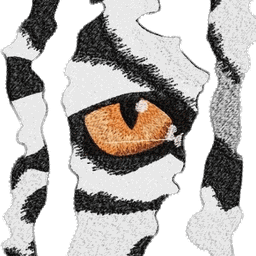
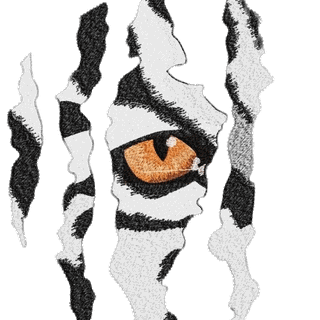
Fix the over-zoomed header mark; say what broke when the plumbing breaks
Three things, one of them found the hard way in production.

The header showed a tight crop of the eye inside a circle, which the
circle then cropped again. At 42px that reads as a close-up photograph,
not a logo. The header now shows the whole tear, bare, at 38px — no
circle, no pill. An intermediate attempt put the full mark inside a pill
at 30px, where it was a speck; rendered side by side, standing on its own
at 38px was plainly the right one.

The icon crop was widened too, from a 370px square to 560px, so the
favicon shows the claws either side of the eye rather than just the eye.
Checked at 16, 24, 32 and 48px: it still reads at the smallest.

The company form no longer prefills invented names. "Shree Balaji Traders
Pvt Ltd" and a specimen GSTIN as placeholders read as if something were
already entered, and a real-looking GSTIN is the one placeholder somebody
might paste by mistake. The GSTIN field keeps a format hint rather than a
specimen number.

Then the one that cost a round trip. Creating a company in production
failed with "Something went wrong. Nothing was changed." That is the right
thing to say about a bug — true, and it leaks nothing — but the wrong
thing to say about a misconfiguration, because the person who can fix it
learns nothing from it. The cause was an environment variable pointing at
a database where the application role does not exist, and finding it meant
reading server logs.
[…]

diff --git a/apps/web/src/lib/infra-errors.ts b/apps/web/src/lib/infra-errors.ts
@@ -1,0 +1,134 @@
+/**
+ * Saying what actually broke, when what broke is the plumbing.
+ *
+ * An unexpected throw used to surface as "Something went wrong. Nothing was
+ * changed." That is the right thing to say about a bug — it tells the user the
+ * truth and leaks nothing — but it is the wrong thing to say about a
+ * misconfiguration, because the person who can fix it learns nothing from it.
+ *
+ * This happened in production: the database rejected the application role's
+ * password, every page that touched the database failed, and the only clue
+ * anybody had was "Something went wrong." The cause was a one-line environment
+ * variable pointing at the wrong database, and finding it meant reading server
+ * logs.
+ *
+ * So a small set of failures that are always configuration, never a bug, get
+ * named. The rule for what goes in the message: enough for whoever administers
+ * the deployment to know which setting to look at, and nothing that would help
+ * somebody who should not be looking. Connection strings, passwords, hosts and
+ * usernames stay out; the NAME of the environment variable goes in, because the
+ * name is already in the repository's README.
+ */
+
+export interface InfrastructureFailure {
+  /** Shown to whoever hit it. */
+  message: string;
+  /** For the log line, so the cause is greppable. */
+  reason: string;
+}
+
+/** Postgres SQLSTATEs that mean "configured wrong", not "the code is wrong". */
+const POSTGRES: Record<string, InfrastructureFailure> = {
+  // Covers a wrong password AND a role that does not exist: Postgres reports
+  // both as 28P01 on purpose, so that probing cannot discover which usernames
+  // are real. The message therefore has to name both possibilities.
+  '28P01': {
+    reason: 'postgres_auth_failed',
+    message:
+      'The app could not sign in to its database. DATABASE_URL has the wrong password for the ' +
+      'application role, or points at a database where that role does not exist. Nothing was changed.',
+  },
+  '28000': {
+    reason: 'postgres_auth_rejected',
+    message:
+      'The database refused the connection. Check DATABASE_URL and whether the database allows ' +
+      'connections from here. Nothing was changed.',
+  },
+  '3D000': {
+    reason: 'postgres_database_missing',
+    message:
+      'The database named in DATABASE_URL does not exist. Nothing was changed.',
+  },
+  // A missing table almost always means the schema is behind the code, which on
+  // this project means the build's migration step did not reach this database.
+  '42P01': {
+    reason: 'postgres_relation_missing',
+    message:
+      'The database is missing a table this version of the app needs, so its migrations have not ' +
+      'run against it. Check that DATABASE_URL_OWNER points at the same database as DATABASE_URL, ' +
+      'then redeploy. Nothing was changed.',
+  },
+  '42501': {
+    reason: 'postgres_permission_denied',
+    message:
+      'The database refused the app permission for that. The application role is missing a grant, ' +
+      'which the migrations normally apply. Nothing was changed.',
+  },
+  '53300': {
+    reason: 'postgres_too_many_connections',
+    message: 'The database is out of connections. Try again shortly; nothing was changed.',
+  },
+};
+
+/** Network failures reaching the database or an upstream service. */
+const NETWORK: Record<string, InfrastructureFailure> = {
+  ECONNREFUSED: {
+    reason: 'connection_refused',
+    message: 'The database refused the connection. It may be asleep or unreachable from here.',
+  },
+  ENOTFOUND: {
+    reason: 'host_not_found',
+    message: 'The database host in DATABASE_URL does not resolve. Check it for a typo.',
+  },
+  ETIMEDOUT: {
+    reason: 'connection_timeout',
+    message: 'The database did not answer in time. Nothing was changed.',
+  },
+  ECONNRESET: {
+    reason: 'connection_reset',
+    message: 'The connection to the database dropped. Nothing was changed.',
+  },
+};
+
+/** A thrown value's `code`, wherever the driver hung it. */
+function codesIn(err: unknown): string[] {
+  const out: string[] = [];
+  let cursor: unknown = err;
+  // `pg` wraps the original error as `cause` on a query failure, and the
+  // SQLSTATE lives on the inner one — reading only the outer would miss it,
+  // which is how the production failure stayed unexplained.
+  for (let depth = 0; cursor !== null && cursor !== undefined && depth < 5; depth += 1) {
+    const code = (cursor as { code?: unknown }).code;
+    if (typeof code === 'string') out.push(code);
+    cursor = (cursor as { cause?: unknown }).cause;
+  }
+  return out;
+}
+
+/**
+ * Whether this failure is the deployment's configuration rather than a bug.
+ *
+ * Returns null for everything else, which keeps the generic message as the
+ * default: a message that guesses at a cause is worse than one that admits it
+ * does not know.
+ */
+export function describeInfrastructureFailure(err: unknown): InfrastructureFailure | null {
+  for (const code of codesIn(err)) {
+    const match = POSTGRES[code] ?? NETWORK[code];
+    if (match) return match;
+  }
+
+  // The env guards throw plain Errors naming the variable. Matching on the
+  // name rather than the sentence keeps this working if the wording changes.
+  const message = err instanceof Error ? err.message : '';
+  for (const name of ['DATABASE_URL_OWNER', 'DATABASE_URL']) {
+    if (message.includes(name) && /not set|missing|undefined/i.test(message)) {
+      return {
+        reason: 'env_missing',
+        message: `${name} is not set on this deployment. Nothing was changed.`,
+      };
+    }
+  }
+
+  return null;
+}

diff --git a/apps/web/tests/unit/infra-errors.test.ts b/apps/web/tests/unit/infra-errors.test.ts
@@ -1,0 +1,111 @@
+import { describe, expect, it } from 'vitest';
+import { describeInfrastructureFailure } from '@/lib/infra-errors';
+
+/** A `pg` query failure: the SQLSTATE is on `cause`, not on the thrown error. */
+function pgFailure(code: string, message = 'Failed query') {
+  const outer = new Error(message) as Error & { cause?: unknown };
+  const inner = new Error('database said no') as Error & { code?: string };
+  inner.code = code;
+  outer.cause = inner;
+  return outer;
+}
+
+describe('describeInfrastructureFailure', () => {
+  it('reads the SQLSTATE off `cause`, where pg actually puts it', () => {
+    // Reading only the outer error is exactly why a production outage showed
+    // "Something went wrong" with no further clue for an hour.
+    const result = describeInfrastructureFailure(pgFailure('28P01'));
+    expect(result?.reason).toBe('postgres_auth_failed');
+  });
+
+  it('reads it off the error itself when there is no wrapper', () => {
+    const err = new Error('nope') as Error & { code?: string };
+    err.code = '28P01';
+    expect(describeInfrastructureFailure(err)?.reason).toBe('postgres_auth_failed');
+  });
+
+  it('names both causes of 28P01, because Postgres will not say which', () => {
+    // Postgres reports a wrong password and a non-existent role identically, so
+    // that probing cannot discover which usernames are real. A message naming
+    // only one of them sends somebody looking in the wrong place.
+    const message = describeInfrastructureFailure(pgFailure('28P01'))!.message;
+    expect(message).toMatch(/wrong password/);
+    expect(message).toMatch(/does not exist/);
+    expect(message).toMatch(/DATABASE_URL/);
+  });
+
+  it('tells a missing table apart from a bug', () => {
+    const result = describeInfrastructureFailure(pgFailure('42P01'));
+    expect(result?.reason).toBe('postgres_relation_missing');
+    expect(result?.message).toMatch(/migrations have not run/);
+    expect(result?.message).toMatch(/DATABASE_URL_OWNER/);
+  });
+
+  it('recognises the network failures that mean the database is unreachable', () => {
+    for (const [code, reason] of [
+      ['ECONNREFUSED', 'connection_refused'],
+      ['ENOTFOUND', 'host_not_found'],
+      ['ETIMEDOUT', 'connection_timeout'],
+      ['ECONNRESET', 'connection_reset'],
+    ] as const) {
+      const err = new Error('net') as Error & { code?: string };
+      err.code = code;
+      expect(describeInfrastructureFailure(err)?.reason, code).toBe(reason);
+    }
+  });
+
+  it('recognises an unset connection string by the variable name', () => {
+    const result = describeInfrastructureFailure(
+      new Error('DATABASE_URL_OWNER is not set. Migrations run as the owner role; set it to …'),
+    );
+    expect(result?.reason).toBe('env_missing');
+    expect(result?.message).toMatch(/DATABASE_URL_OWNER is not set/);
+  });
+
+  it('leaks nothing a stranger could use', () => {
+    // The point of naming the variable is to help whoever administers the
+    // deployment. Naming its contents would help somebody else entirely.
+    const samples = [
+      pgFailure('28P01'),
+      pgFailure('3D000'),
+      pgFailure('42501'),
+      (() => {
+        const e = new Error('x') as Error & { code?: string };
+        e.code = 'ENOTFOUND';
+        return e;
+      })(),
+    ];
+    for (const err of samples) {
+      const message = describeInfrastructureFailure(err)!.message;
+      expect(message).not.toMatch(/postgres(ql)?:\/\//);
+      expect(message).not.toMatch(/password\s*[:=]/i);
+      expect(message).not.toMatch(/@[\w.-]+\.(tech|com|net)/);
+      expect(message).not.toMatch(/sherrbyte_app/);
+    }
+  });
+
+  it('says nothing about an ordinary bug, so the generic message still applies', () => {
+    // A message that guesses at a cause is worse than one that admits it does
+    // not know.
+    expect(describeInfrastructureFailure(new TypeError('x is not a function'))).toBeNull();
+    expect(describeInfrastructureFailure(new Error('boom'))).toBeNull();
+    expect(describeInfrastructureFailure(null)).toBeNull();
+    expect(describeInfrastructureFailure('a string')).toBeNull();
+
+    // A constraint violation is the database working correctly.
+    expect(describeInfrastructureFailure(pgFailure('23505'))).toBeNull();
+  });
+
+  it('stops walking a cause chain that points at itself', () => {
+    const a = new Error('a') as Error & { cause?: unknown };
+    a.cause = a;
+    expect(() => describeInfrastructureFailure(a)).not.toThrow();
+  });
+
+  it('every message says nothing was changed, or why it could not be', () => {
+    for (const code of ['28P01', '28000', '3D000', '42P01', '42501', '53300']) {
+      const message = describeInfrastructureFailure(pgFailure(code))!.message;
+      expect(message, code).toMatch(/Nothing was changed|try again/i);
+    }
+  });
+});

diff --git a/apps/web/src/lib/auth/action.ts b/apps/web/src/lib/auth/action.ts
@@ -6,6 +6,7 @@ import { withTenant, type Tx } from '@/lib/db/tenant';
 import { writeAudit, type AuditEntry } from '@/lib/audit/log';
 import { consume } from '@/lib/ratelimit';
 import { AppError, forbidden, rateLimited } from '@/lib/errors';
+import { describeInfrastructureFailure } from '@/lib/infra-errors';
 
 export interface ActionContext<TInput> extends RequestContext {
   input: TInput;
@@ -86,8 +87,15 @@ export function defineAction<TSchema extends z.ZodTypeAny, TOut>(
       if (err instanceof AppError) {
         return { ok: false, code: err.code, error: err.message };
       }
-      console.error(`[action:${config.name}]`, err);
-      return { ok: false, code: 'unknown', error: 'Something went wrong. Nothing was changed.' };
+      // A misconfigured deployment is not a bug, and saying "something went
+      // wrong" about one leaves the person who can fix it with nothing to go on.
+      const infra = describeInfrastructureFailure(err);
+      console.error(`[action:${config.name}]${infra ? ` ${infra.reason}` : ''}`, err);
+      return {
+        ok: false,
+        code: 'unknown',
+        error: infra?.message ?? 'Something went wrong. Nothing was changed.',
+      };
     }
   };
 
@@ -164,8 +172,13 @@ export function defineAccountAction<TSchema extends z.ZodTypeAny, TOut>(
       return { ok: true, data: await config.handler({ ...ctx, input: parsed.data }) };
     } catch (err) {
       if (err instanceof AppError) return { ok: false, code: err.code, error: err.message };
-      console.error(`[account-action:${config.name}]`, err);
-      return { ok: false, code: 'unknown', error: 'Something went wrong. Nothing was changed.' };
+      const infra = describeInfrastructureFailure(err);
+      console.error(`[account-action:${config.name}]${infra ? ` ${infra.reason}` : ''}`, err);
+      return {
+        ok: false,
+        code: 'unknown',
+        error: infra?.message ?? 'Something went wrong. Nothing was changed.',
+      };
     }
   };
 

diff --git a/apps/web/src/app/(onboarding)/onboarding/company/CompanyForm.tsx b/apps/web/src/app/(onboarding)/onboarding/company/CompanyForm.tsx
@@ -90,13 +90,11 @@ export function CompanyForm() {
       <div className={ui.formGrid}>
         <Field
           name="legalName" label="Registered legal name" required
-          placeholder="Shree Balaji Traders Pvt Ltd"
           hint="As it appears on your certificate of incorporation."
           errors={fieldErrors.legalName}
         />
         <Field
           name="tradeName" label="Trade name"
-          placeholder="Balaji Traders"
           hint="Optional. What customers know you as."
           errors={fieldErrors.tradeName}
         />
@@ -128,7 +126,7 @@ export function CompanyForm() {
             name="gstin"
             value={gstin}
             onChange={(e) => setGstin(e.target.value.toUpperCase())}
-            placeholder="27AAPFU0939F1ZV"
+            placeholder="15 characters"
             maxLength={15}
             autoComplete="off"
             spellCheck={false}
@@ -150,8 +148,8 @@ export function CompanyForm() {
         </div>
       ) : (
         <Field
-          name="pan" label="PAN" placeholder="AAPFU0939F"
-          hint="Ten characters. Asked for directly because there is no GSTIN to read it from."
+          name="pan" label="PAN"
+          hint="Ten characters, like AAAAA9999A. Asked for directly because there is no GSTIN to read it from."
           errors={fieldErrors.pan}
         />
       )}

diff --git a/apps/web/src/components/shell/shell.module.css b/apps/web/src/components/shell/shell.module.css
@@ -8,15 +8,17 @@
   background: linear-gradient(180deg, #0a0a0c 0%, rgba(10,10,12,.92) 70%, rgba(10,10,12,0) 100%);
 }
 .mark {
-  flex: 0 0 auto; width: 42px; height: 42px; border-radius: 50%;
-  background: var(--sb-lift-3); border: 1px solid var(--sb-hairline);
-  display: grid; place-items: center;
-  /* The glyph is square and the circle crops its corners. That is deliberate:
-     the eye sits at the centre, so what the circle takes is outer claw. */
-  overflow: hidden;
-  transition: box-shadow .18s;
+  /* The mark stands on its own — no circle, no pill. It was in a circle cropped
+     to the eye, which read as a close-up photograph rather than a logo; and a
+     container around the whole tear only shrank it to a speck. The artwork is
+     its own shape against the canvas, which is what it was drawn to be.
+     The padding is hit area, not decoration: the mark is narrow. */
+  flex: 0 0 auto; height: 42px; padding: 0 6px;
+  display: grid; place-items: center; border-radius: 10px;
+  transition: opacity .18s;
 }
 .mark img { display: block; }
+.mark:hover { opacity: .78; }
 /* Focus is left to the global :focus-visible rule in globals.css, which already
    draws an accent ring on everything focusable. */
 .mark:hover { box-shadow: 0 0 0 3px rgba(255,255,255,.10); }

diff --git a/apps/web/tests/ui/brand.test.tsx b/apps/web/tests/ui/brand.test.tsx
@@ -90,13 +90,20 @@ describe('LogoLockup', () => {
 });
 
 describe('TopBar', () => {
-  it('shows the mark and makes it the way home', () => {
-    // It was a bare letter in a circle before: it looked like a brand mark and
-    // did nothing when clicked.
+  it('shows the whole mark, not a crop of it, and makes it the way home', () => {
+    // Two things were wrong before: a bare letter that looked like a brand mark
+    // and did nothing when clicked, then an eye crop inside a circle that read
+    // as a close-up photograph. The header shows the artwork entire.
     render(<TopBar />);
     const home = screen.getByRole('link', { name: /SherrByte/ });
     expect(home.getAttribute('href')).toBe('/dashboard');
-    expect(home.querySelector('img')!.getAttribute('src')).toBe('/brand/glyph.png');
+
+    const img = home.querySelector('img')!;
+    expect(img.getAttribute('src')).toBe('/brand/mark.png');
+    expect(img.getAttribute('src')).not.toBe('/brand/glyph.png');
+    // Tall enough to read: the first attempt at this put it at 30px inside a
+    // pill, where it was a speck.
+    expect(Number(img.getAttribute('height'))).toBeGreaterThanOrEqual(34);
   });
 
   it('labels that link, since the mark itself carries no text', () => {

diff --git a/apps/web/src/components/shell/TopBar.tsx b/apps/web/src/components/shell/TopBar.tsx
@@ -1,16 +1,16 @@
 import Link from 'next/link';
 import { UserButton } from '@clerk/nextjs';
-import { LogoGlyph } from '@/components/brand/Logo';
+import { LogoMark } from '@/components/brand/Logo';
 import styles from './shell.module.css';
 
 export function TopBar() {
   return (
     <header className={styles.top}>
-      {/* Home, as a logo in the top-left is expected to be. It was a bare
-          letter in a circle before, which looked like a brand mark and did
-          nothing when clicked. */}
+      {/* The whole mark, not the eye crop. A circle cropped to the eye read as
+          a close-up photograph rather than a logo; the tear is the shape people
+          recognise, and it only works whole. */}
       <Link className={styles.mark} href="/dashboard" aria-label="SherrByte — go to the dashboard">
-        <LogoGlyph size={42} priority />
+        <LogoMark height={38} priority />
       </Link>
       <button className={styles.cmd} type="button" disabled title="Available in a later phase">
         <span className={styles.cmdText}>
